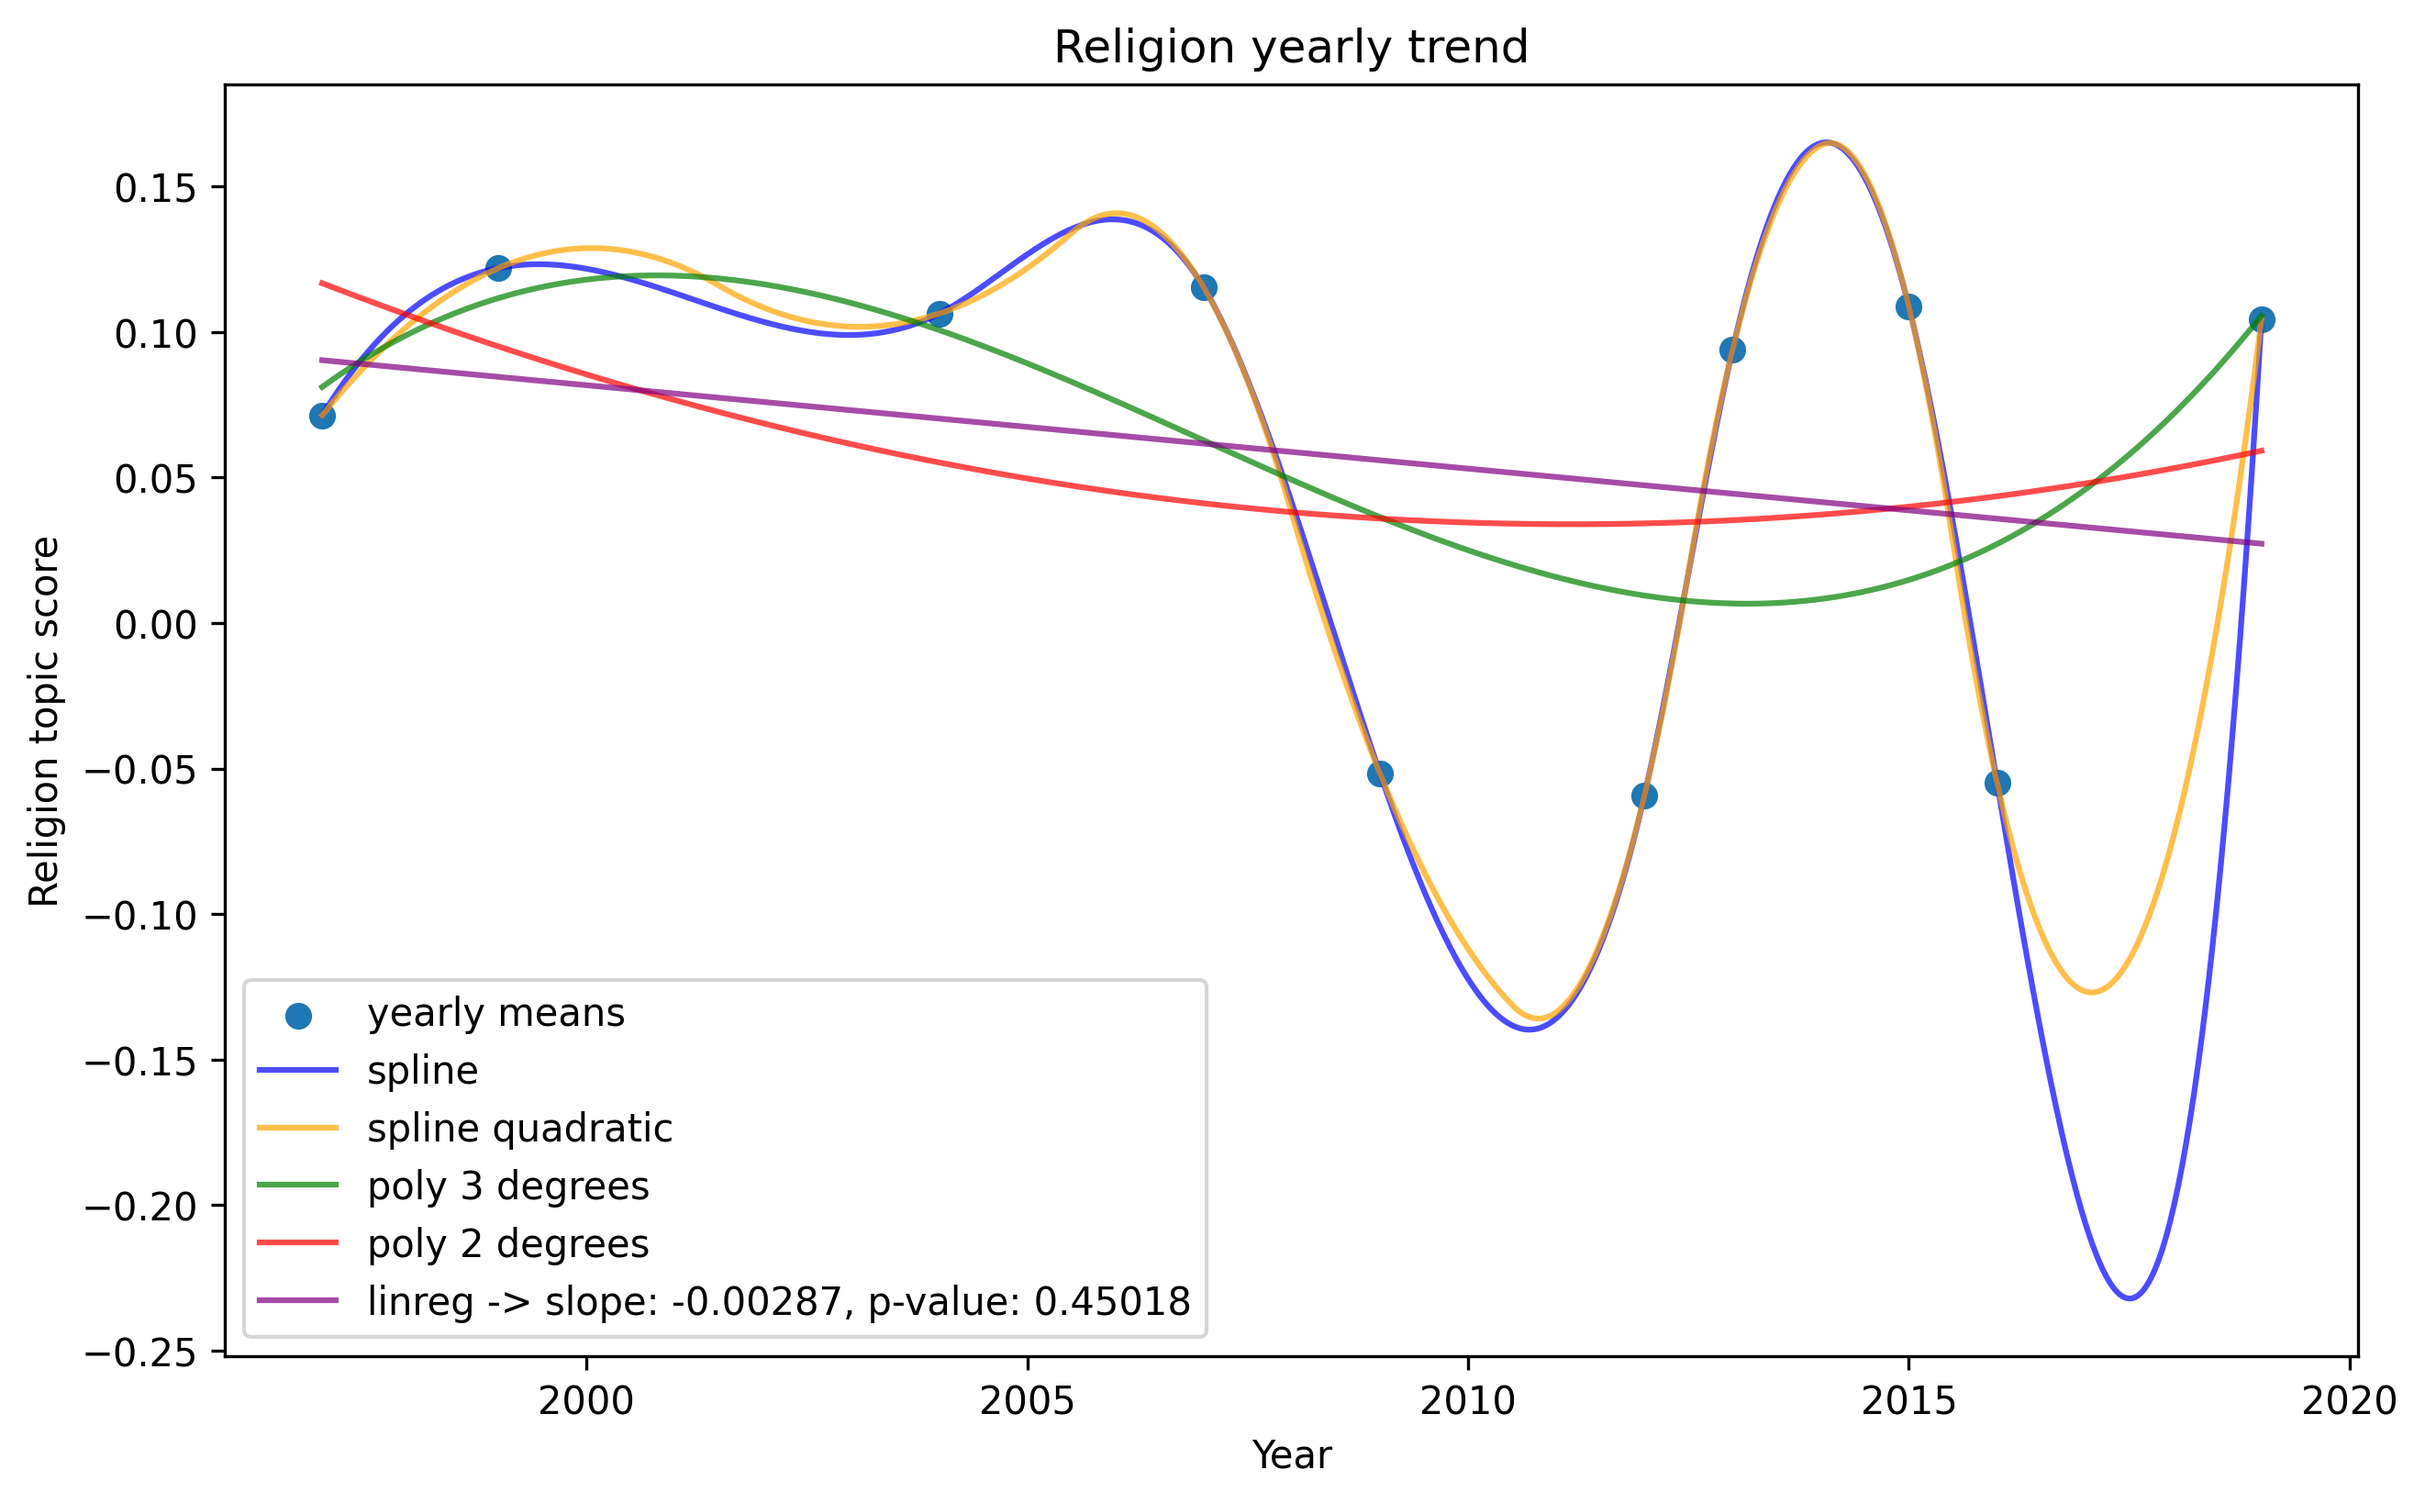
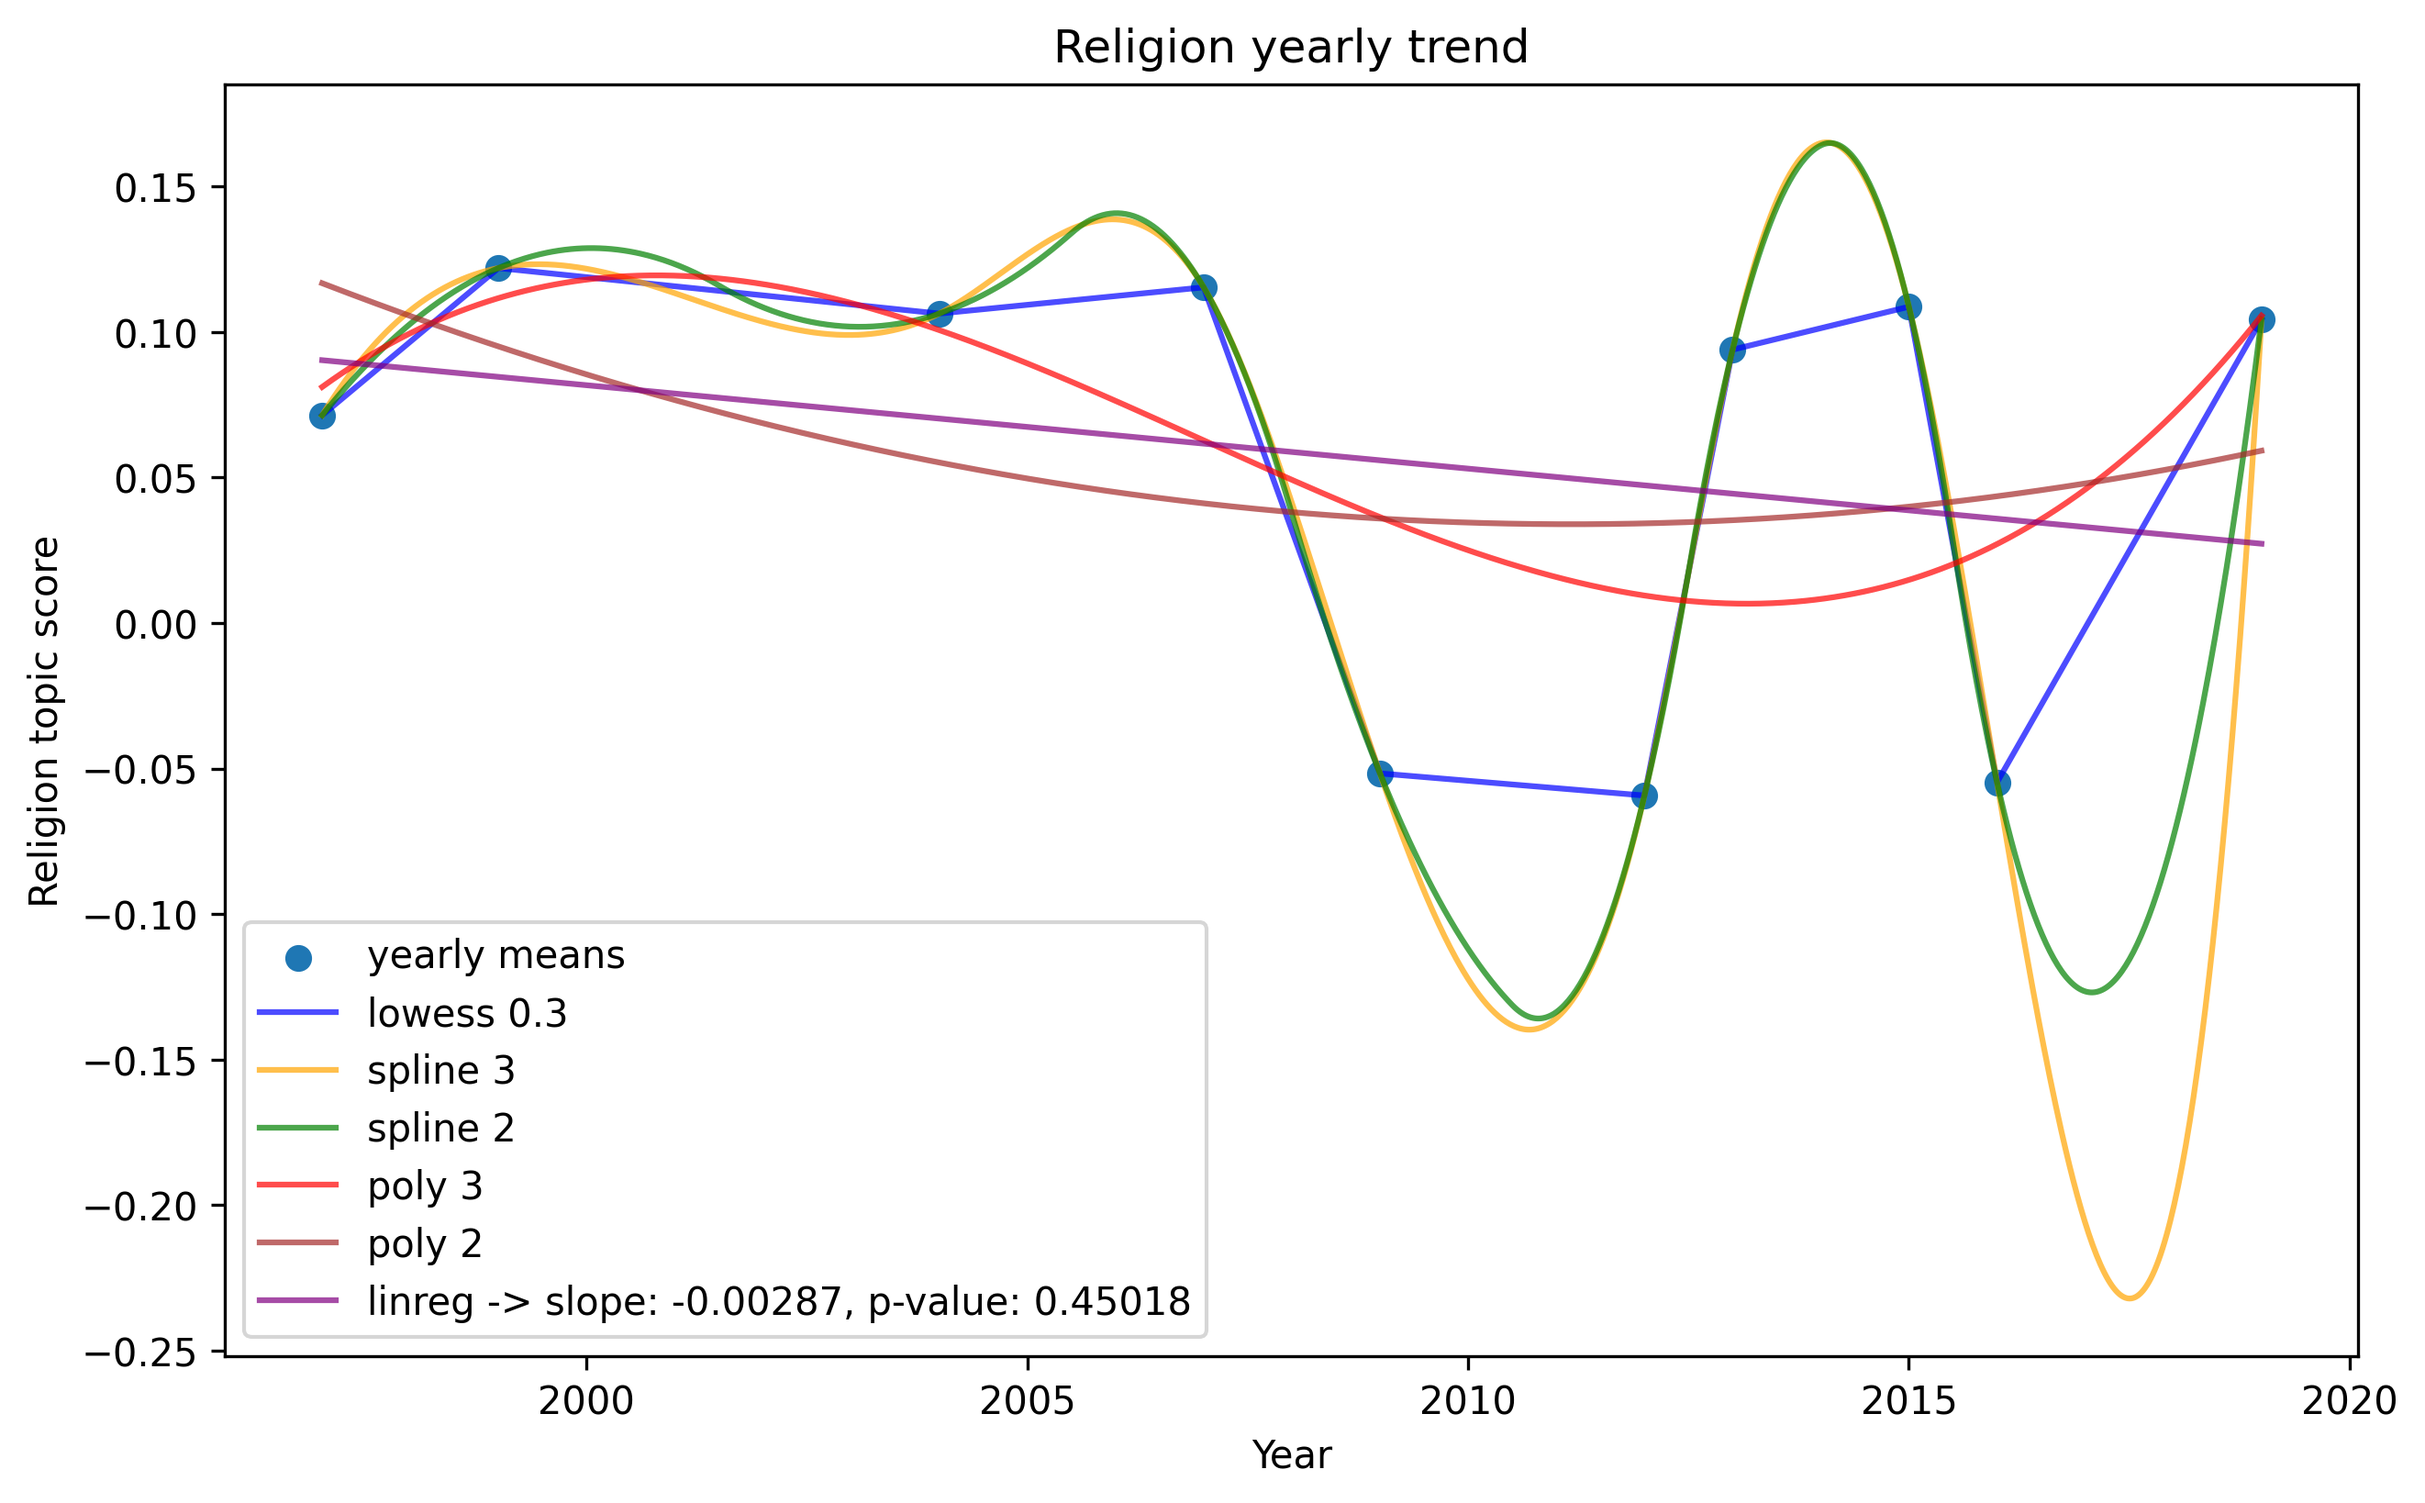
final result

diff --git a/main.py b/main.py
@@ -10,6 +10,7 @@ from sklearn.mixture import GaussianMixture
 from scipy.stats import norm
 from scipy import stats
 from scipy.interpolate import make_splrep
+import statsmodels.api as sm
 
 EMBEDDINGS_MODEL = "sentence-transformers/all-mpnet-base-v2"
 NLP_MODEL = "en_core_web_sm"
@@ -124,6 +125,7 @@ def main():
         years = np.array(list(yearly_topic_scores.keys()))
         colors = ["green", "purple", "orange"]
         gmm = GaussianMixture(n_components=2, random_state=420)
+        lowess = sm.nonparametric.lowess
         means = []
         for year in years:
             scores = np.array(yearly_topic_scores[year]).reshape(-1, 1)
@@ -164,33 +166,45 @@ def main():
             )
         _, ax = plt.subplots(figsize=(10, 6))
         ax.scatter(years, means, label="yearly means")
-        spline1 = make_splrep(years, means, s=10)
-        spline2 = make_splrep(years, means, k=2, s=10)
+        spline1 = make_splrep(years, means)
+        spline2 = make_splrep(years, means, k=2)
         poly1 = np.poly1d(np.polyfit(years, means, 3))
         poly2 = np.poly1d(np.polyfit(years, means, 2))
+        lowess1 = lowess(means, years, frac=0.3)
         smooth_years = np.linspace(years.min(), years.max(), 1000)
         ax.plot(
-            smooth_years, spline1(smooth_years), color="blue", label="spline", alpha=0.7
+            years,
+            np.interp(years, lowess1[:, 0], lowess1[:, 1]),
+            color="blue",
+            label="lowess 0.3",
+            alpha=0.7,
+        )
+        ax.plot(
+            smooth_years,
+            spline1(smooth_years),
+            color="orange",
+            label="spline 3",
+            alpha=0.7,
         )
         ax.plot(
             smooth_years,
             spline2(smooth_years),
-            color="orange",
-            label="spline quadratic",
+            color="green",
+            label="spline 2",
             alpha=0.7,
         )
         ax.plot(
             smooth_years,
             poly1(smooth_years),
-            color="green",
-            label="poly 3 degrees",
+            color="red",
+            label="poly 3",
             alpha=0.7,
         )
         ax.plot(
             smooth_years,
             poly2(smooth_years),
-            color="red",
-            label="poly 2 degrees",
+            color="brown",
+            label="poly 2",
             alpha=0.7,
         )
         s, i, _, p, _ = stats.linregress(years, means)
@@ -209,26 +223,46 @@ def main():
         plt.savefig(f"outputs/plots/Trend/{topic}", dpi=300, bbox_inches="tight")
 
         _, ax = plt.subplots(figsize=(10, 6))
-        ax.plot(years, means - spline1(years), color="blue", label="spline", alpha=0.7)
+        ax.plot(
+            years,
+            means - np.interp(years, lowess1[:, 0], lowess1[:, 1]),
+            color="blue",
+            label="lowess 0.3",
+            alpha=0.7,
+        )
+        ax.plot(
+            years,
+            means - spline1(years),
+            color="orange",
+            label="spline 3",
+            alpha=0.7,
+        )
         ax.plot(
             years,
             means - spline2(years),
-            color="orange",
-            label="spline quadratic",
+            color="green",
+            label="spline 2",
             alpha=0.7,
         )
         ax.plot(
             years,
             means - poly1(years),
-            color="green",
-            label="poly 3 degrees",
+            color="red",
+            label="poly 3",
             alpha=0.7,
         )
         ax.plot(
             years,
             means - poly2(years),
-            color="red",
-            label="poly 2 degrees",
+            color="brown",
+            label="poly 2",
+            alpha=0.7,
+        )
+        ax.plot(
+            years,
+            means - line,
+            color="purple",
+            label="linear",
             alpha=0.7,
         )
         ax.set_title(f"{topic} residuals")
